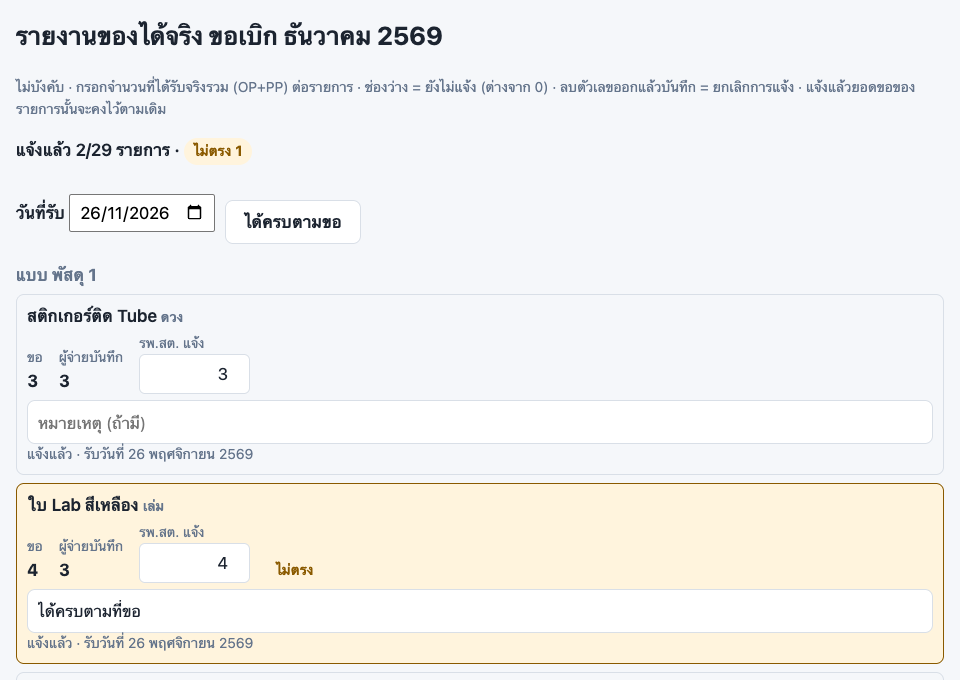
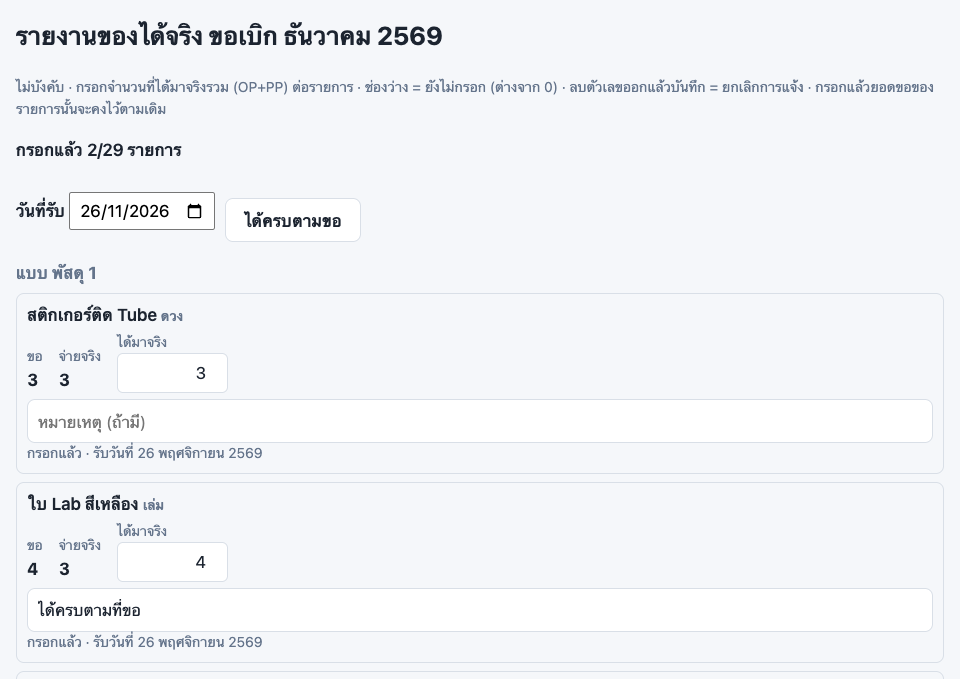
PCU 2aw: manual screenshots retaken for 2av (newest round first, no เกินแผน/ไม่ตรง marks, unit_1 popup dropped) · received page: drop the stale ไม่ตรง lookup that threw on every input (ได้ครบตามขอ filled only one row)

diff --git a/public/help/manual_pcu.js b/public/help/manual_pcu.js
@@ -213,16 +213,16 @@ export default [
   {
     id: "received",
     title: "8. รายงานของได้จริง (ไม่บังคับ — เก็บหลักฐานของหน่วยเอง)",
-    intro: "เมื่อได้รับของแล้ว บันทึกได้ว่าได้จริงกี่ชิ้น ไม่บังคับ แต่เป็นหลักฐานของ รพ.สต. เอง เมื่อของที่ได้ไม่ตรงกับที่หน่วยจ่ายบันทึกจ่าย ระบบจะขึ้น \"ไม่ตรง\" ให้ผู้ดูแลเห็นและตามต่อ · ใช้ได้ทุกเดือนที่มียอดขอ (กรอกเอง หรือผู้ดูแลคีย์ให้จากใบกระดาษ) แม้รอบปิดแล้ว · เปิดจากปุ่ม \"รายงานของได้จริง\" บนการ์ดรอบในหน้าหลัก",
+    intro: "เมื่อได้รับของแล้ว บันทึกได้ว่าได้จริงกี่ชิ้น ไม่บังคับ แต่เป็นหลักฐานของ รพ.สต. เอง เมื่อของที่ได้ไม่ตรงกับที่หน่วยจ่ายบันทึกจ่าย ผู้ดูแลจะเห็นในหน้าของผู้ดูแลและตามต่อ · ใช้ได้ทุกเดือนที่มียอดขอ (กรอกเอง หรือผู้ดูแลคีย์ให้จากใบกระดาษ) แม้รอบปิดแล้ว · เปิดจากปุ่ม \"รายงานของได้จริง\" บนการ์ดรอบในหน้าหลัก",
     shots: [
       {
         img: "received_1.png", alt: "หน้ารายงานของได้จริง",
-        marks: [{ n: 1, sel_key: "date" }, { n: 2, sel_key: "full" }, { n: 3, sel_key: "qty" }, { n: 4, sel_key: "flag" }],
+        marks: [{ n: 1, sel_key: "date" }, { n: 2, sel_key: "full" }, { n: 3, sel_key: "qty" }, { n: 4, sel_key: "note" }],
         steps: [
           "① วันที่รับของ",
           "② \"ได้ครบตามขอ\" — เติมจำนวนที่ได้รับ = ที่ขอ ทุกรายการในครั้งเดียว แล้วแก้เฉพาะรายการที่ได้ไม่ครบ",
           "③ \"ได้มาจริง\" — จำนวนที่ได้มาจริงรวม (OP+PP) · ช่องว่าง = ยังไม่กรอก ส่วน 0 = แจ้งว่าไม่ได้ของเลย (คนละความหมาย) · ลบตัวเลขในช่องที่แจ้งแล้ว = ยกเลิกการแจ้งรายการนั้น",
-          "④ ป้าย \"ไม่ตรง\" = ที่แจ้งต่างจากที่หน่วยจ่ายบันทึก — ผู้ดูแลจะเห็นเพื่อตามต่อ ไม่มีผลต่อใบเบิกของคุณ · ใส่หมายเหตุสั้น ๆ ได้ เช่น \"ของหมดอายุ 2 ชิ้น\"",
+          "④ หมายเหตุสั้น ๆ (ถ้ามี) เช่น \"ของหมดอายุ 2 ชิ้น\" · ถ้าที่กรอกต่างจากที่หน่วยจ่ายบันทึก ผู้ดูแลจะเห็นในหน้าของผู้ดูแลเพื่อตามต่อ ไม่มีผลต่อใบเบิกของคุณ",
           "กด \"บันทึก\" (แถบท้ายหน้า) · รายการที่แจ้งแล้ว ยอดขอของรายการนั้นจะแก้ไม่ได้อีก (คงไว้เป็นหลักฐาน — ดูหัวข้อ 11)",
         ],
       },
@@ -307,12 +307,11 @@ export default [
       },
       {
         img: "flags_1.png", alt: "แถวในหน้ากรอกที่มีป้ายและข้อความแจ้ง",
-        marks: [{ n: 1, sel_key: "out" }, { n: 2, sel_key: "over" }, { n: 3, sel_key: "pending" }, { n: 4, sel_key: "cancelled" }],
+        marks: [{ n: 1, sel_key: "out" }, { n: 2, sel_key: "pending" }, { n: 3, sel_key: "cancelled" }],
         steps: [
           "① ป้าย \"ของหมด\" (สีเหลือง) — หน่วยจ่ายแจ้งว่าของหมด อาจมีวันที่คาดว่าจะมีของและหมายเหตุ · ยังสั่งได้",
-          "② (ภาพเก่า) แถว \"เกินแผน\" ไม่แสดงแล้ว — ส่งได้ตามปกติ",
-          "③ ป้าย \"รอจัดซื้อ\" (สีเทา) — อยู่ระหว่างจัดซื้อ · ยังสั่งได้",
-          "④ แถวสีเทา \"ยกเลิกรายการ\" — เลิกใช้รายการนี้แล้ว (มีเหตุผลหรือรายการที่ใช้แทน) กรอกยอดขอไม่ได้",
+          "② ป้าย \"รอจัดซื้อ\" (สีเทา) — อยู่ระหว่างจัดซื้อ · ยังสั่งได้",
+          "③ แถวสีเทา \"ยกเลิกรายการ\" — เลิกใช้รายการนี้แล้ว (มีเหตุผลหรือรายการที่ใช้แทน) กรอกยอดขอไม่ได้",
         ],
       },
       {

diff --git a/public/js/pages/received.js b/public/js/pages/received.js
@@ -103,7 +103,7 @@ export async function renderReceived(container, app, params) {
         <span class="muted small" id="rcv-dirty"></span>
         <button type="button" class="btn btn-primary" id="rcv-save">บันทึก</button>
       </div>`;
-    wire(issued);
+    wire();
   };
 
   // {code: {qty, note, qtyChanged}} for rows whose box differs from what is stored
@@ -123,16 +123,10 @@ export async function renderReceived(container, app, params) {
     return out;
   };
 
-  function wire(issued) {
+  function wire() {
     const dirtyEl = box.querySelector("#rcv-dirty");
     const refresh = (row) => {
-      if (row) {
-        const code = row.dataset.code, got = issued[code];
-        const v = row.querySelector(".rcv-qty").value.trim();
-        const mm = !!got && v !== "" && Number(v) !== Number(got.total);
-        row.classList.toggle("rcv-mismatch", mm);
-        row.querySelector(".rcv-flag").hidden = !mm;
-      }
+      // 2aw: no "ไม่ตรง" badge on the PCU page since 2at (admin tab only) — the old lookup threw on every input
       const n = changes().length;
       dirtyEl.textContent = n ? `ยังไม่บันทึก ${n} รายการ` : "";
     };
